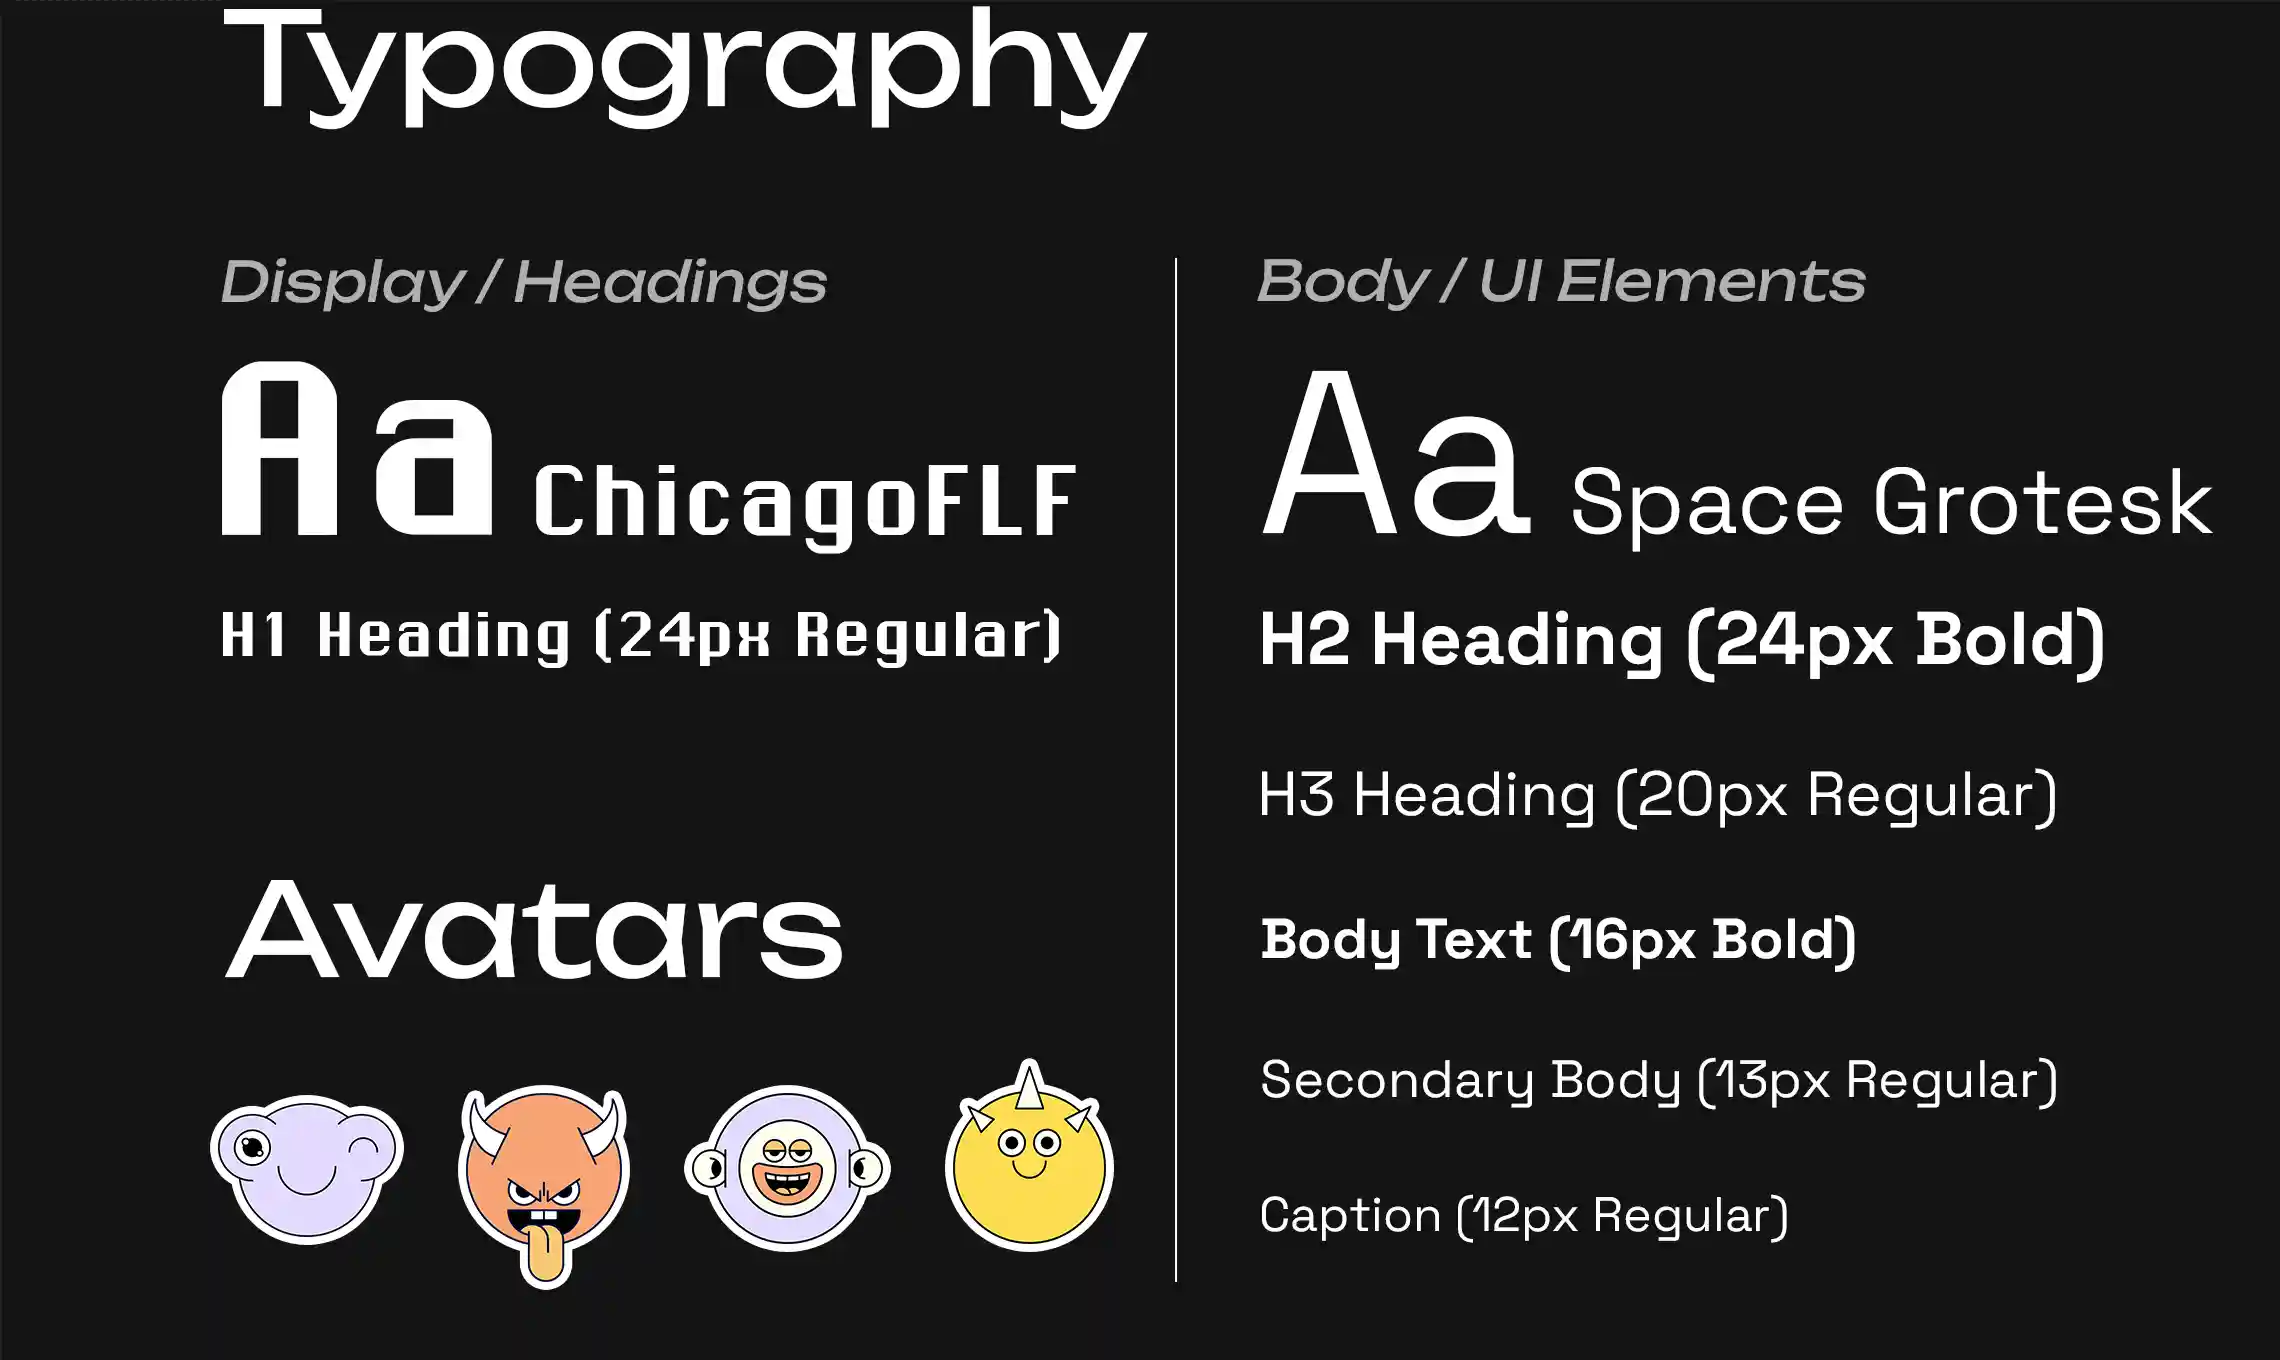
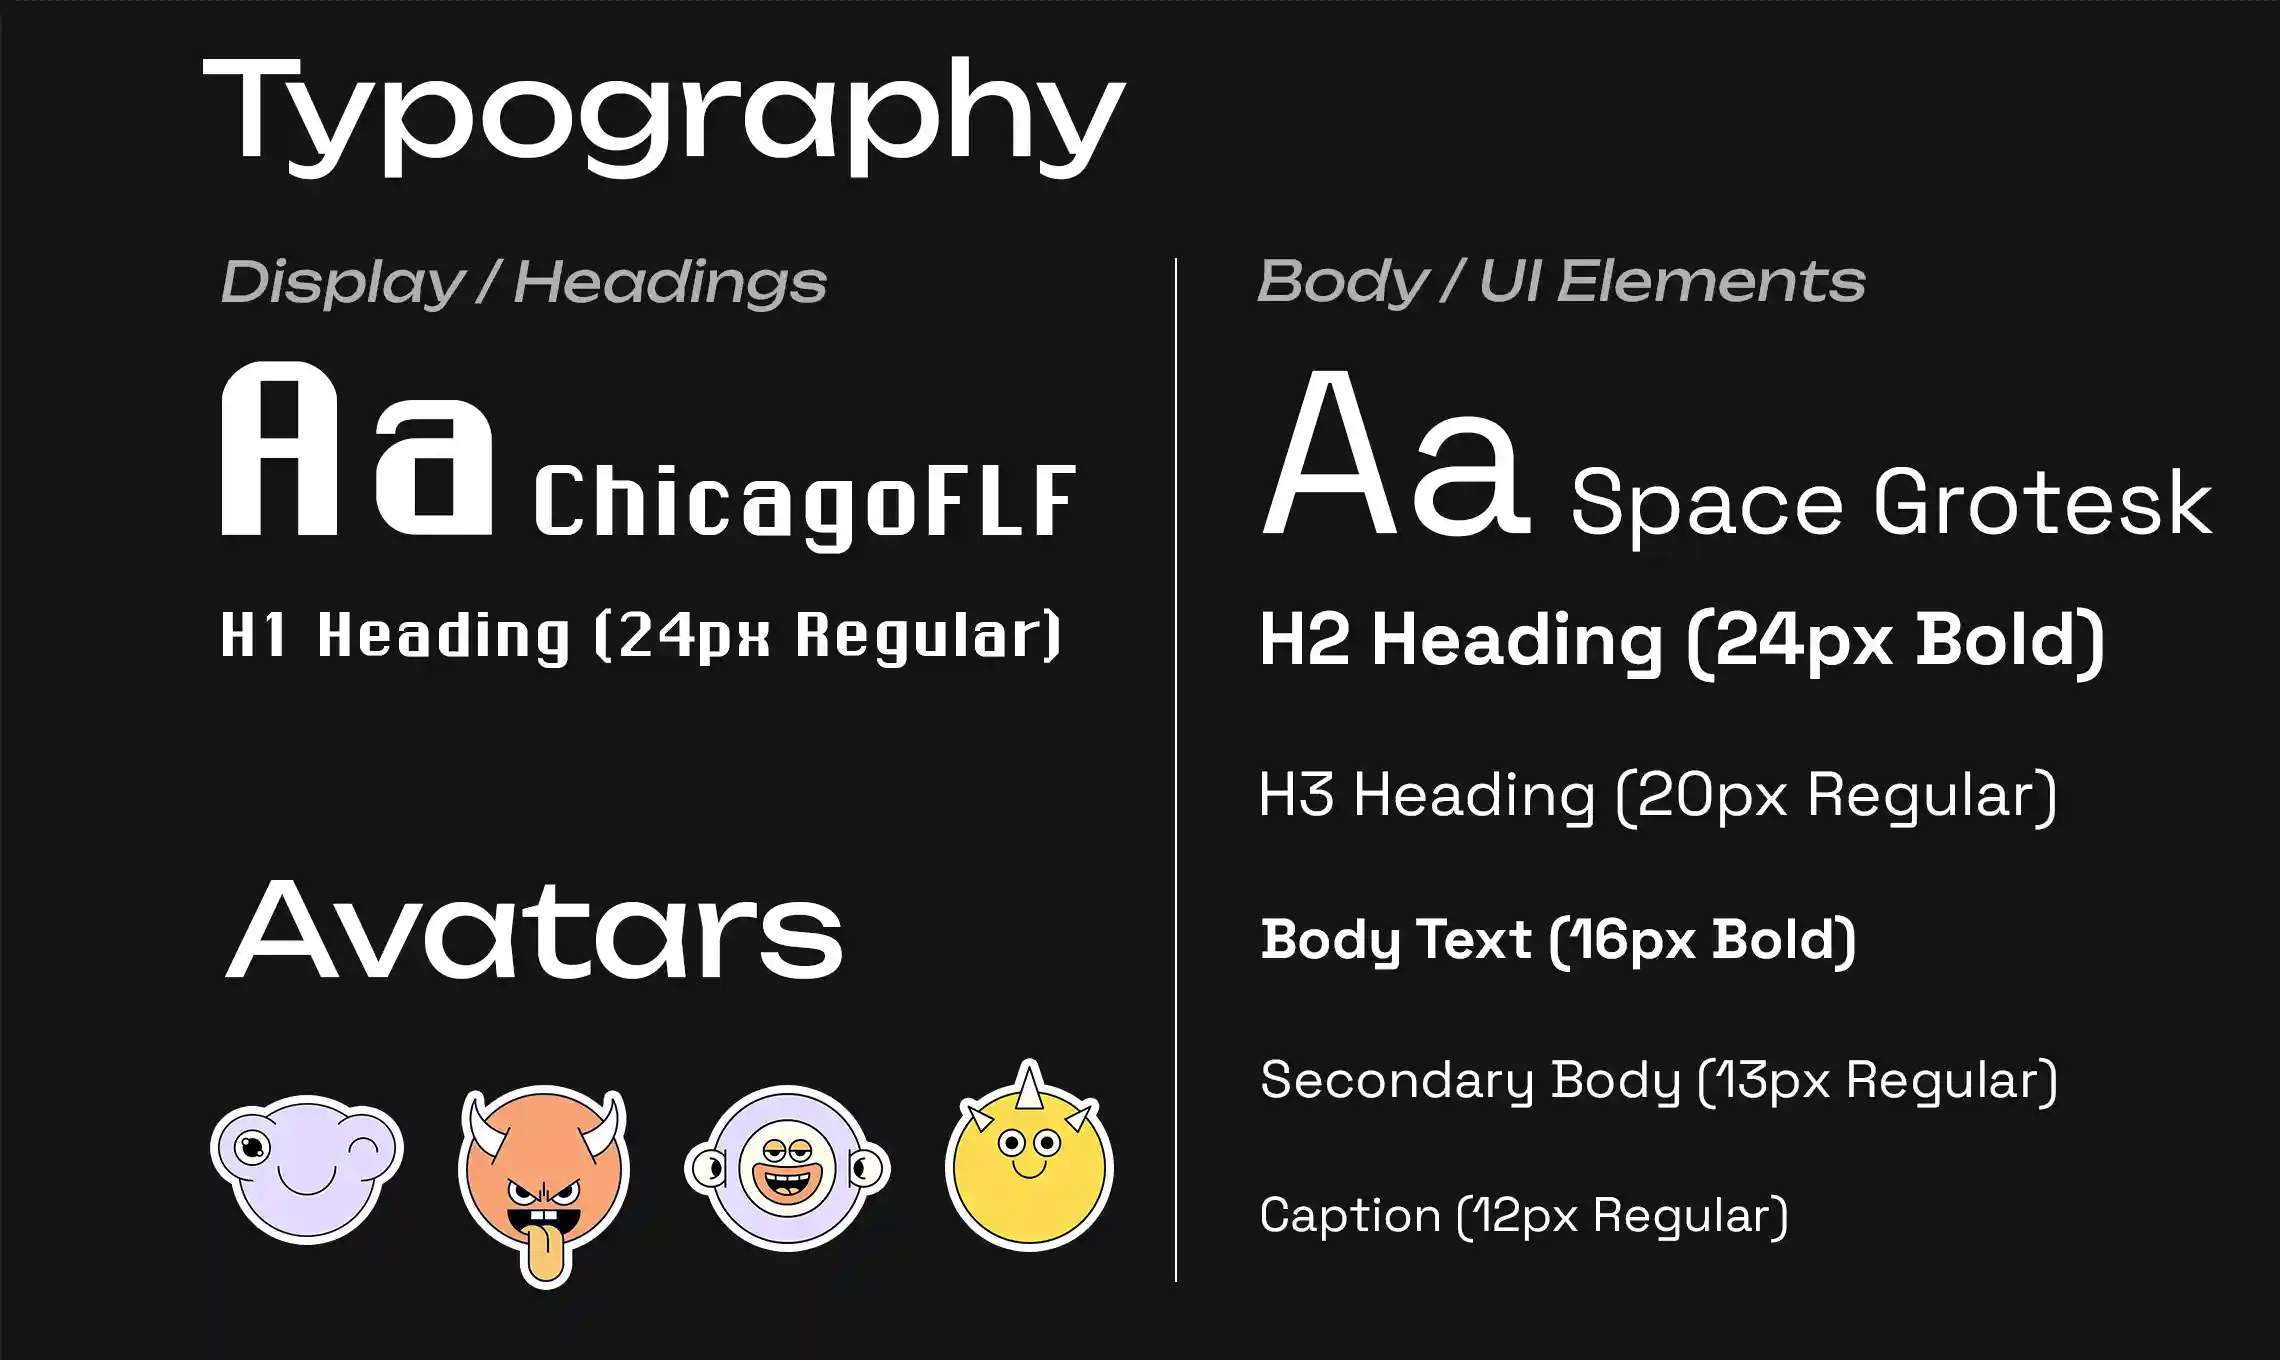
Оновив дизайн на повторюваний колаж для десктопу

Changed region(s): [[0.0934, 0.0, 0.4982, 0.1544]]

diff --git a/styles.css b/styles.css
@@ -390,6 +390,46 @@ main { max-width: var(--maxw); margin-inline: auto; padding-inline: var(--gutter
 }
 .project-card:hover .project-name { color: var(--text-bright); }
 
+/* -------- DESKTOP: alternating mirrored collage (homepage grid only) --------
+   Cards vary in height via grid-row spans to form a staggered collage.
+   Cards 1–4 set a pattern; cards 5–8 mirror it left↔right. Repeats every 8. */
+@media (min-width: 768px) {
+  #projectGrid {
+    grid-template-columns: repeat(2, 1fr);
+    grid-auto-rows: 150px;          /* row unit; spans build the card heights */
+    grid-auto-flow: row dense;      /* backfill gaps → tight staggered collage */
+    gap: 40px 32px;
+    align-items: stretch;
+  }
+  #projectGrid .project-card {
+    display: flex;
+    flex-direction: column;         /* media grows, text sits at the bottom */
+  }
+  #projectGrid .project-media {
+    aspect-ratio: auto;             /* override the fixed 5/4 — fill the card */
+    flex: 1 1 auto;
+    min-height: 0;
+    /* img already uses object-fit: cover, so every shape is filled cleanly */
+  }
+
+  /* pin the columns so the tall/short pattern stays consistent side-to-side */
+  #projectGrid .project-card:nth-child(odd)  { grid-column: 1; }   /* left  */
+  #projectGrid .project-card:nth-child(even) { grid-column: 2; }   /* right */
+
+  /* one 4-card pattern that REPEATS every 4 (cards 5–8 == cards 1–4) */
+  #projectGrid .project-card:nth-child(4n + 1) { grid-row: span 3; }  /* tall  · left  */
+  #projectGrid .project-card:nth-child(4n + 2) { grid-row: span 2; }  /* short · right */
+  #projectGrid .project-card:nth-child(4n + 3) { grid-row: span 2; }  /* short · left  */
+  #projectGrid .project-card:nth-child(4n + 4) { grid-row: span 3; }  /* tall  · right */
+}
+
+/* MOBILE / small screens: plain 1-column list, no spans, no collage */
+@media (max-width: 767px) {
+  #projectGrid { grid-template-columns: 1fr; grid-auto-rows: auto; }
+  #projectGrid .project-card { display: block; }
+  #projectGrid .project-media { aspect-ratio: 5 / 4; }
+}
+
 /* =========================================================
    HOME — ABOUT BLOCK (full-width intro + 3-column grid)
    ========================================================= */